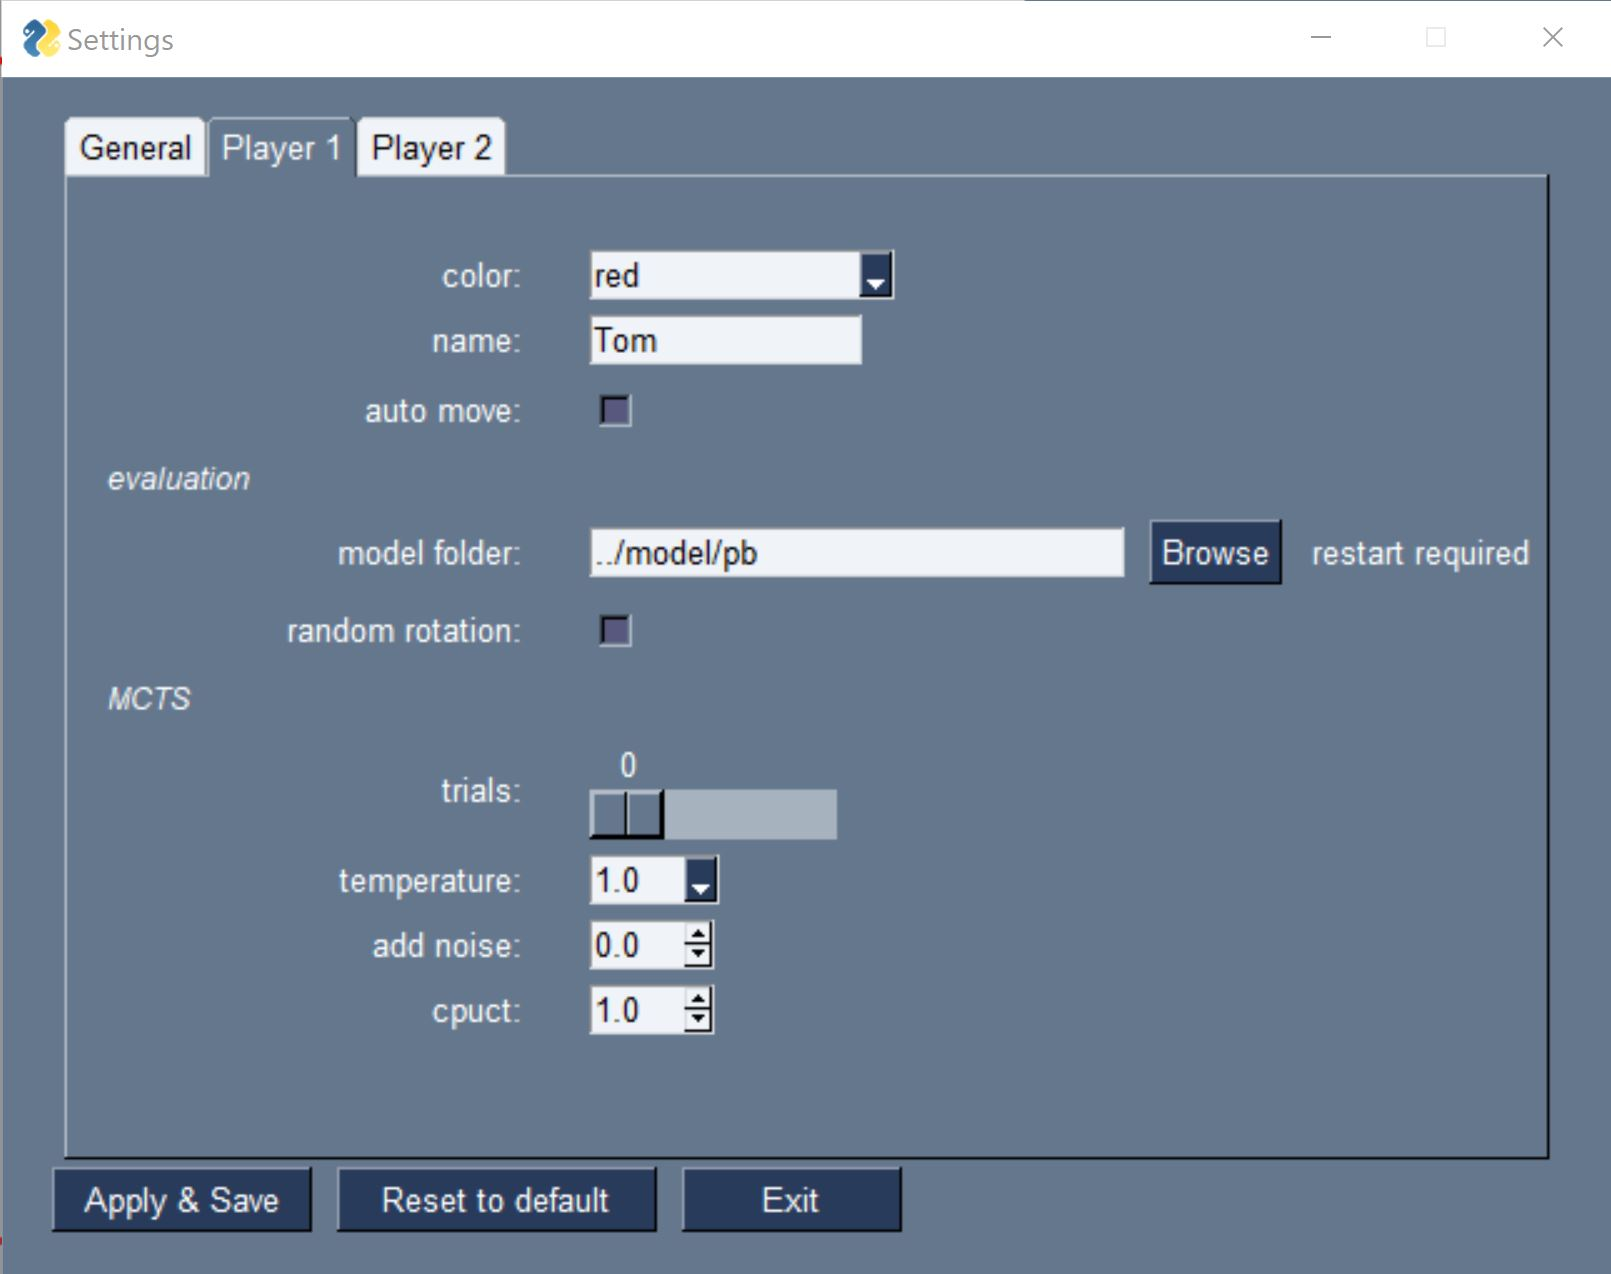
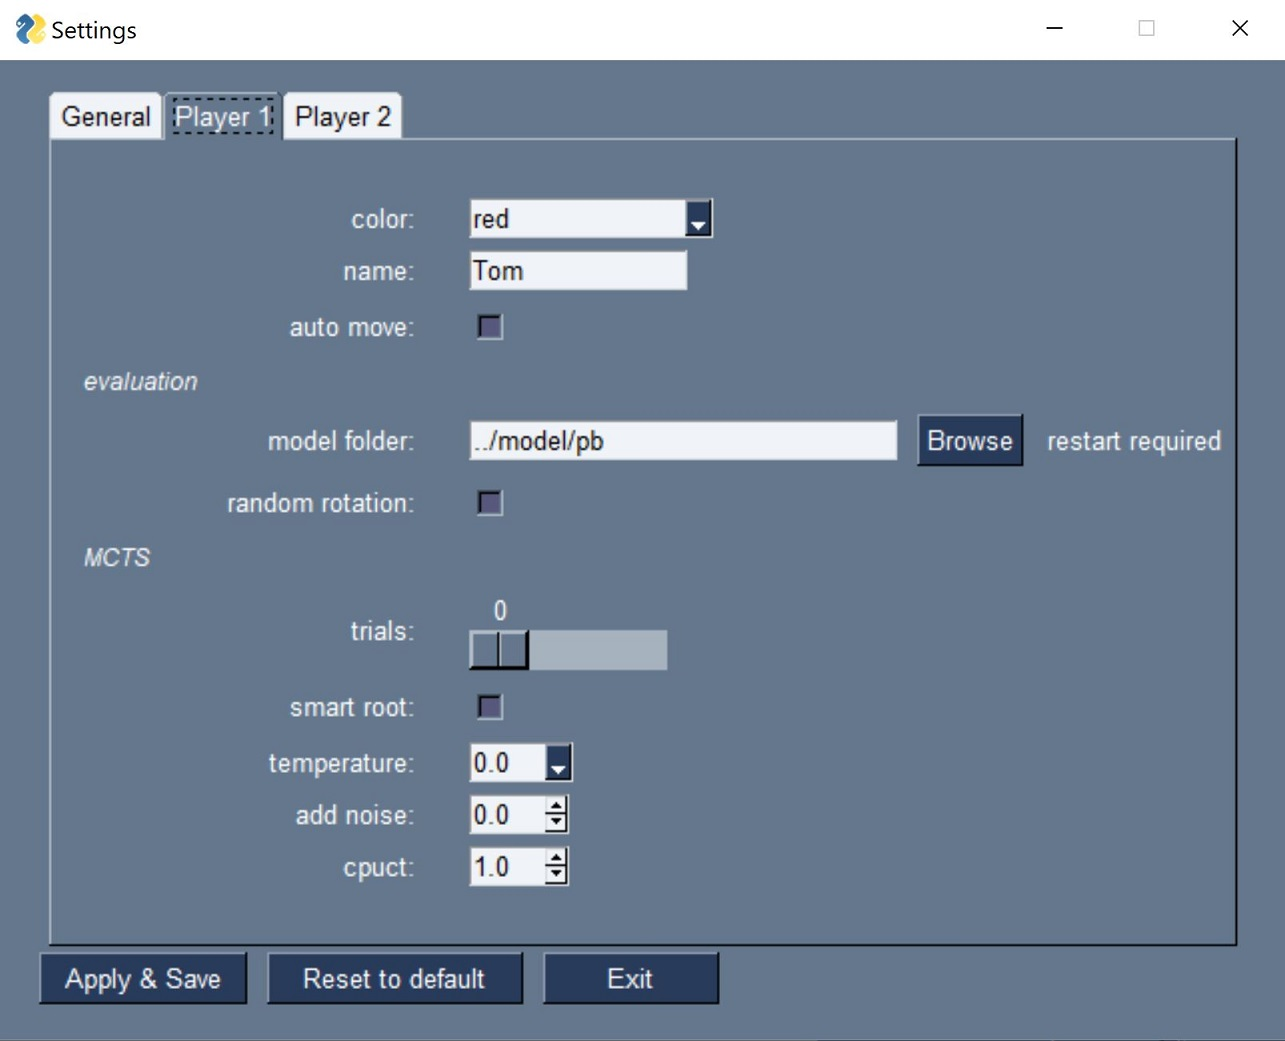
README.md updated

diff --git a/README.md b/README.md
@@ -102,7 +102,7 @@ Note that for the first move and the swap move the bot does not use the evaluati
 
 All settings can be changed and saved via *File -> Settings...*. Most changes are effective immediately and can be applied in the middle of a game. Click button *Reset to default* to reset the values in all three tabs. 
 
-![Settings Dialog](img/Settings.JPG)
+<img src="img/Settings.JPG" alt="drawing" width="600"/>
 
 Parameters *auto move* and *trials* can also be changed in the control panel of the main window. These changes won't be saved when you exit the program. In the main window, to see the current settings in a tooltip, hover the mouse over the *auto move* checkboxes. 
 
@@ -127,6 +127,7 @@ Parameters *auto move* and *trials* can also be changed in the control panel of 
 - *random rotation*: if true, the bot randomly chooses one of the four equivalent boards (rotation / mirroring) for evaluation (default: false)
 - *model folder*: no reason to change this unless you have a second network (default: `../model/pb`)
 - *trials*: number of MCTS iterations. Set it to 0 to switch off MCTS (default: 0)
+- *smart root*: if true, the leading move is not visted if it is more than one visit ahead. Of the remaining moves the one with the best UCB is chosen instead (default: false) 
 - *temperature*: controls the policy which move is taken after MCTS: 
   - 0.0: choose move with highest number of visits; random choice for tie-break (default)
   - 0.5: random choice using probability distribution of squared number of visits
